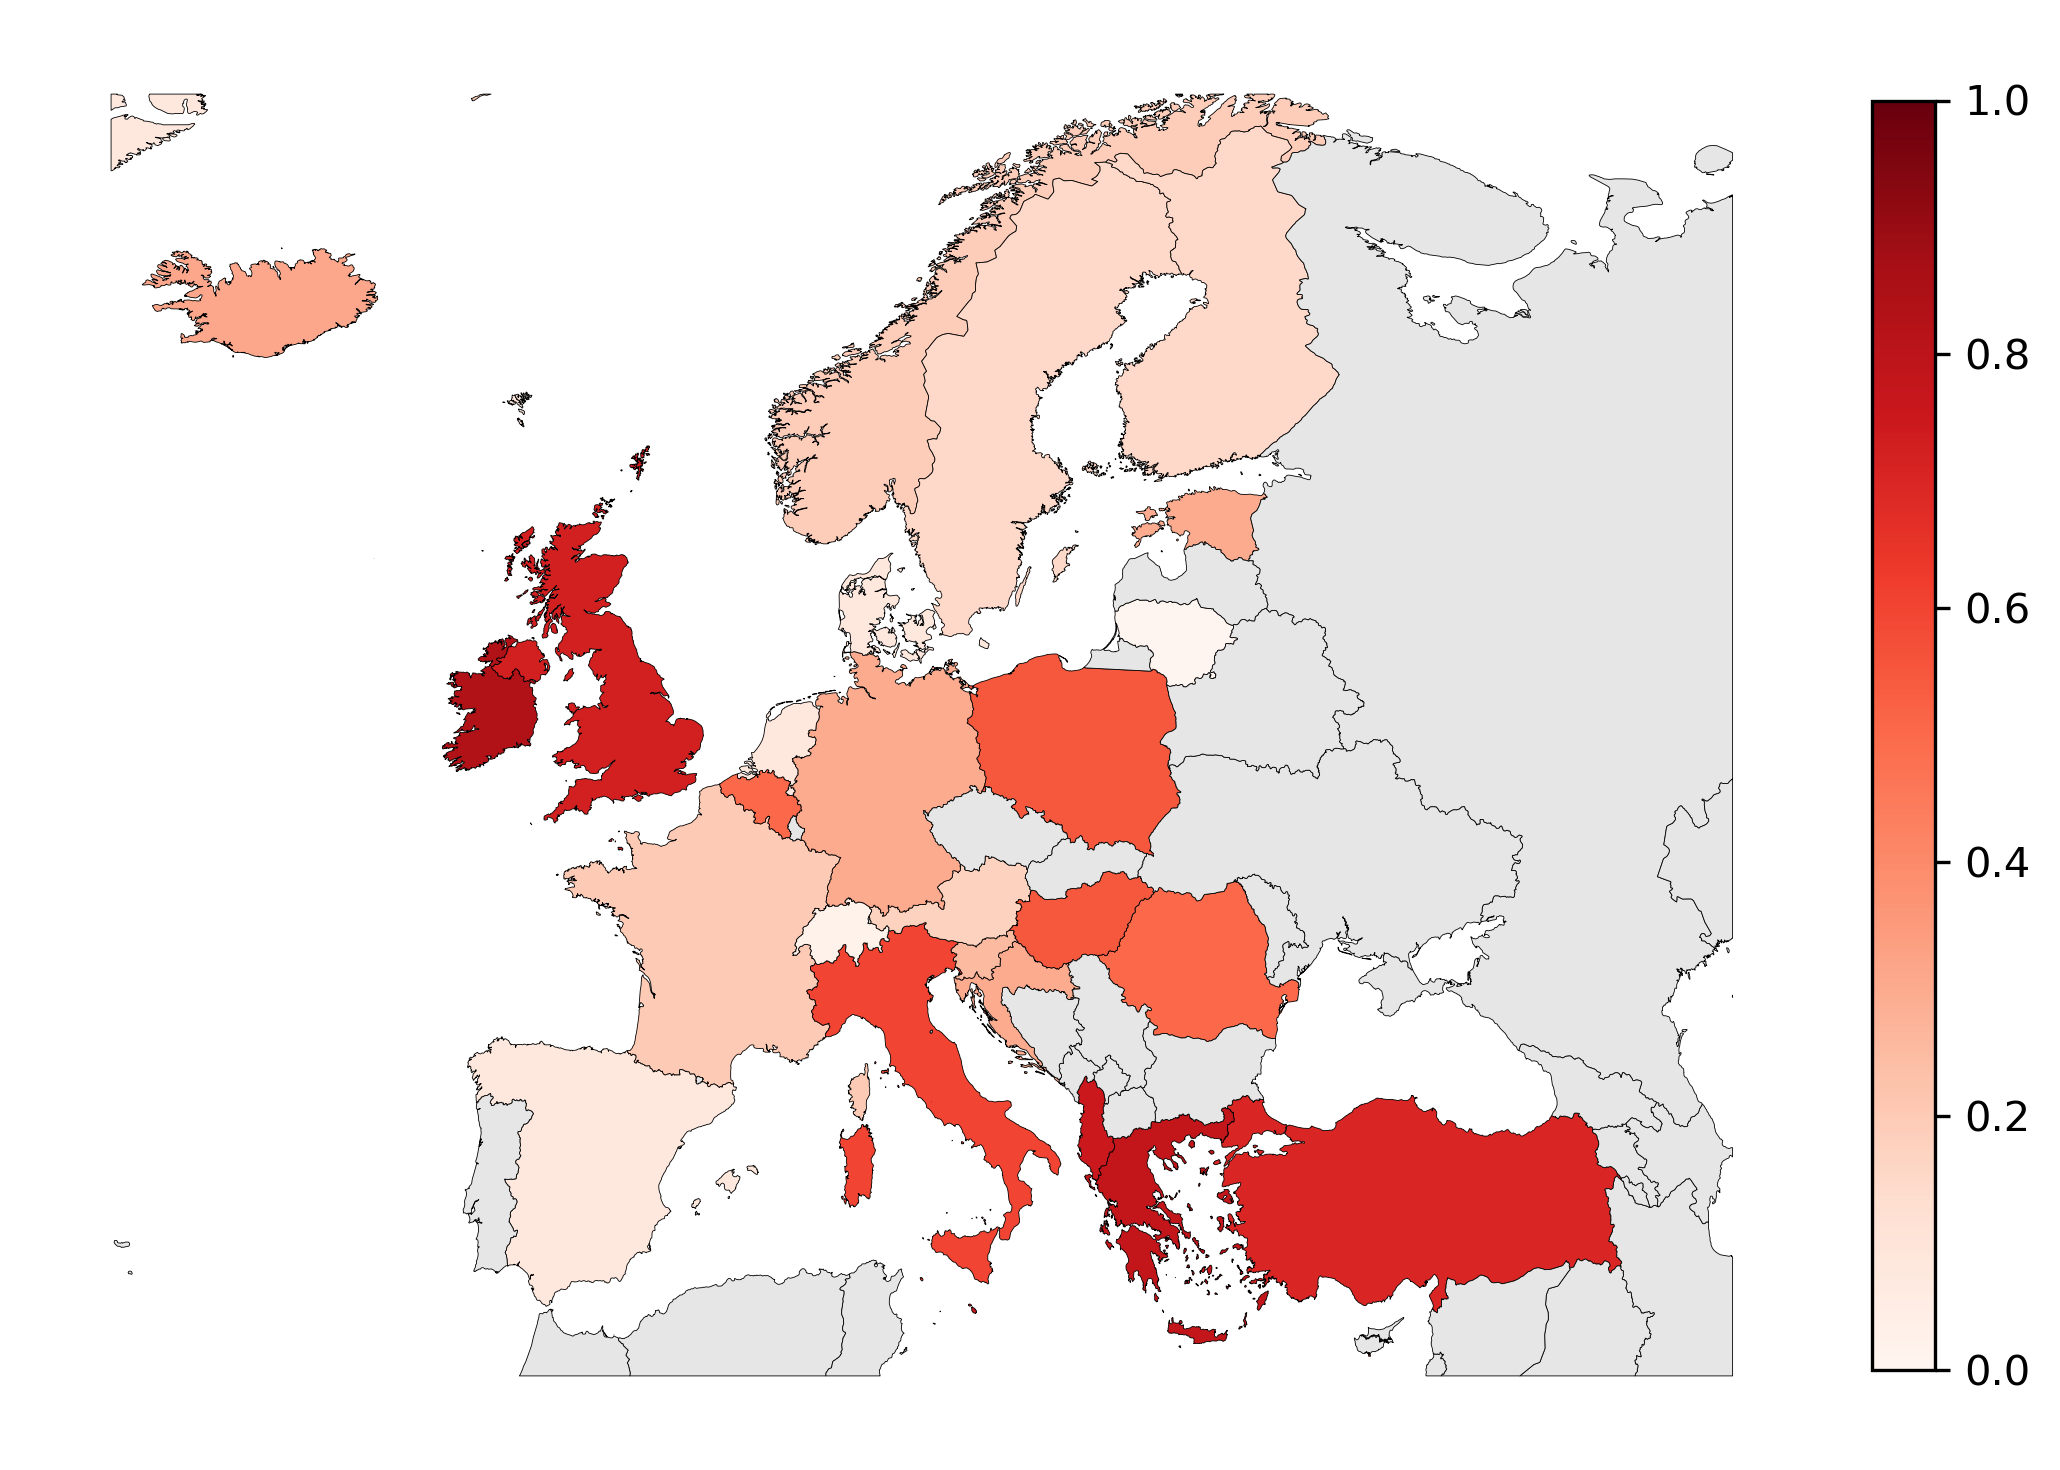
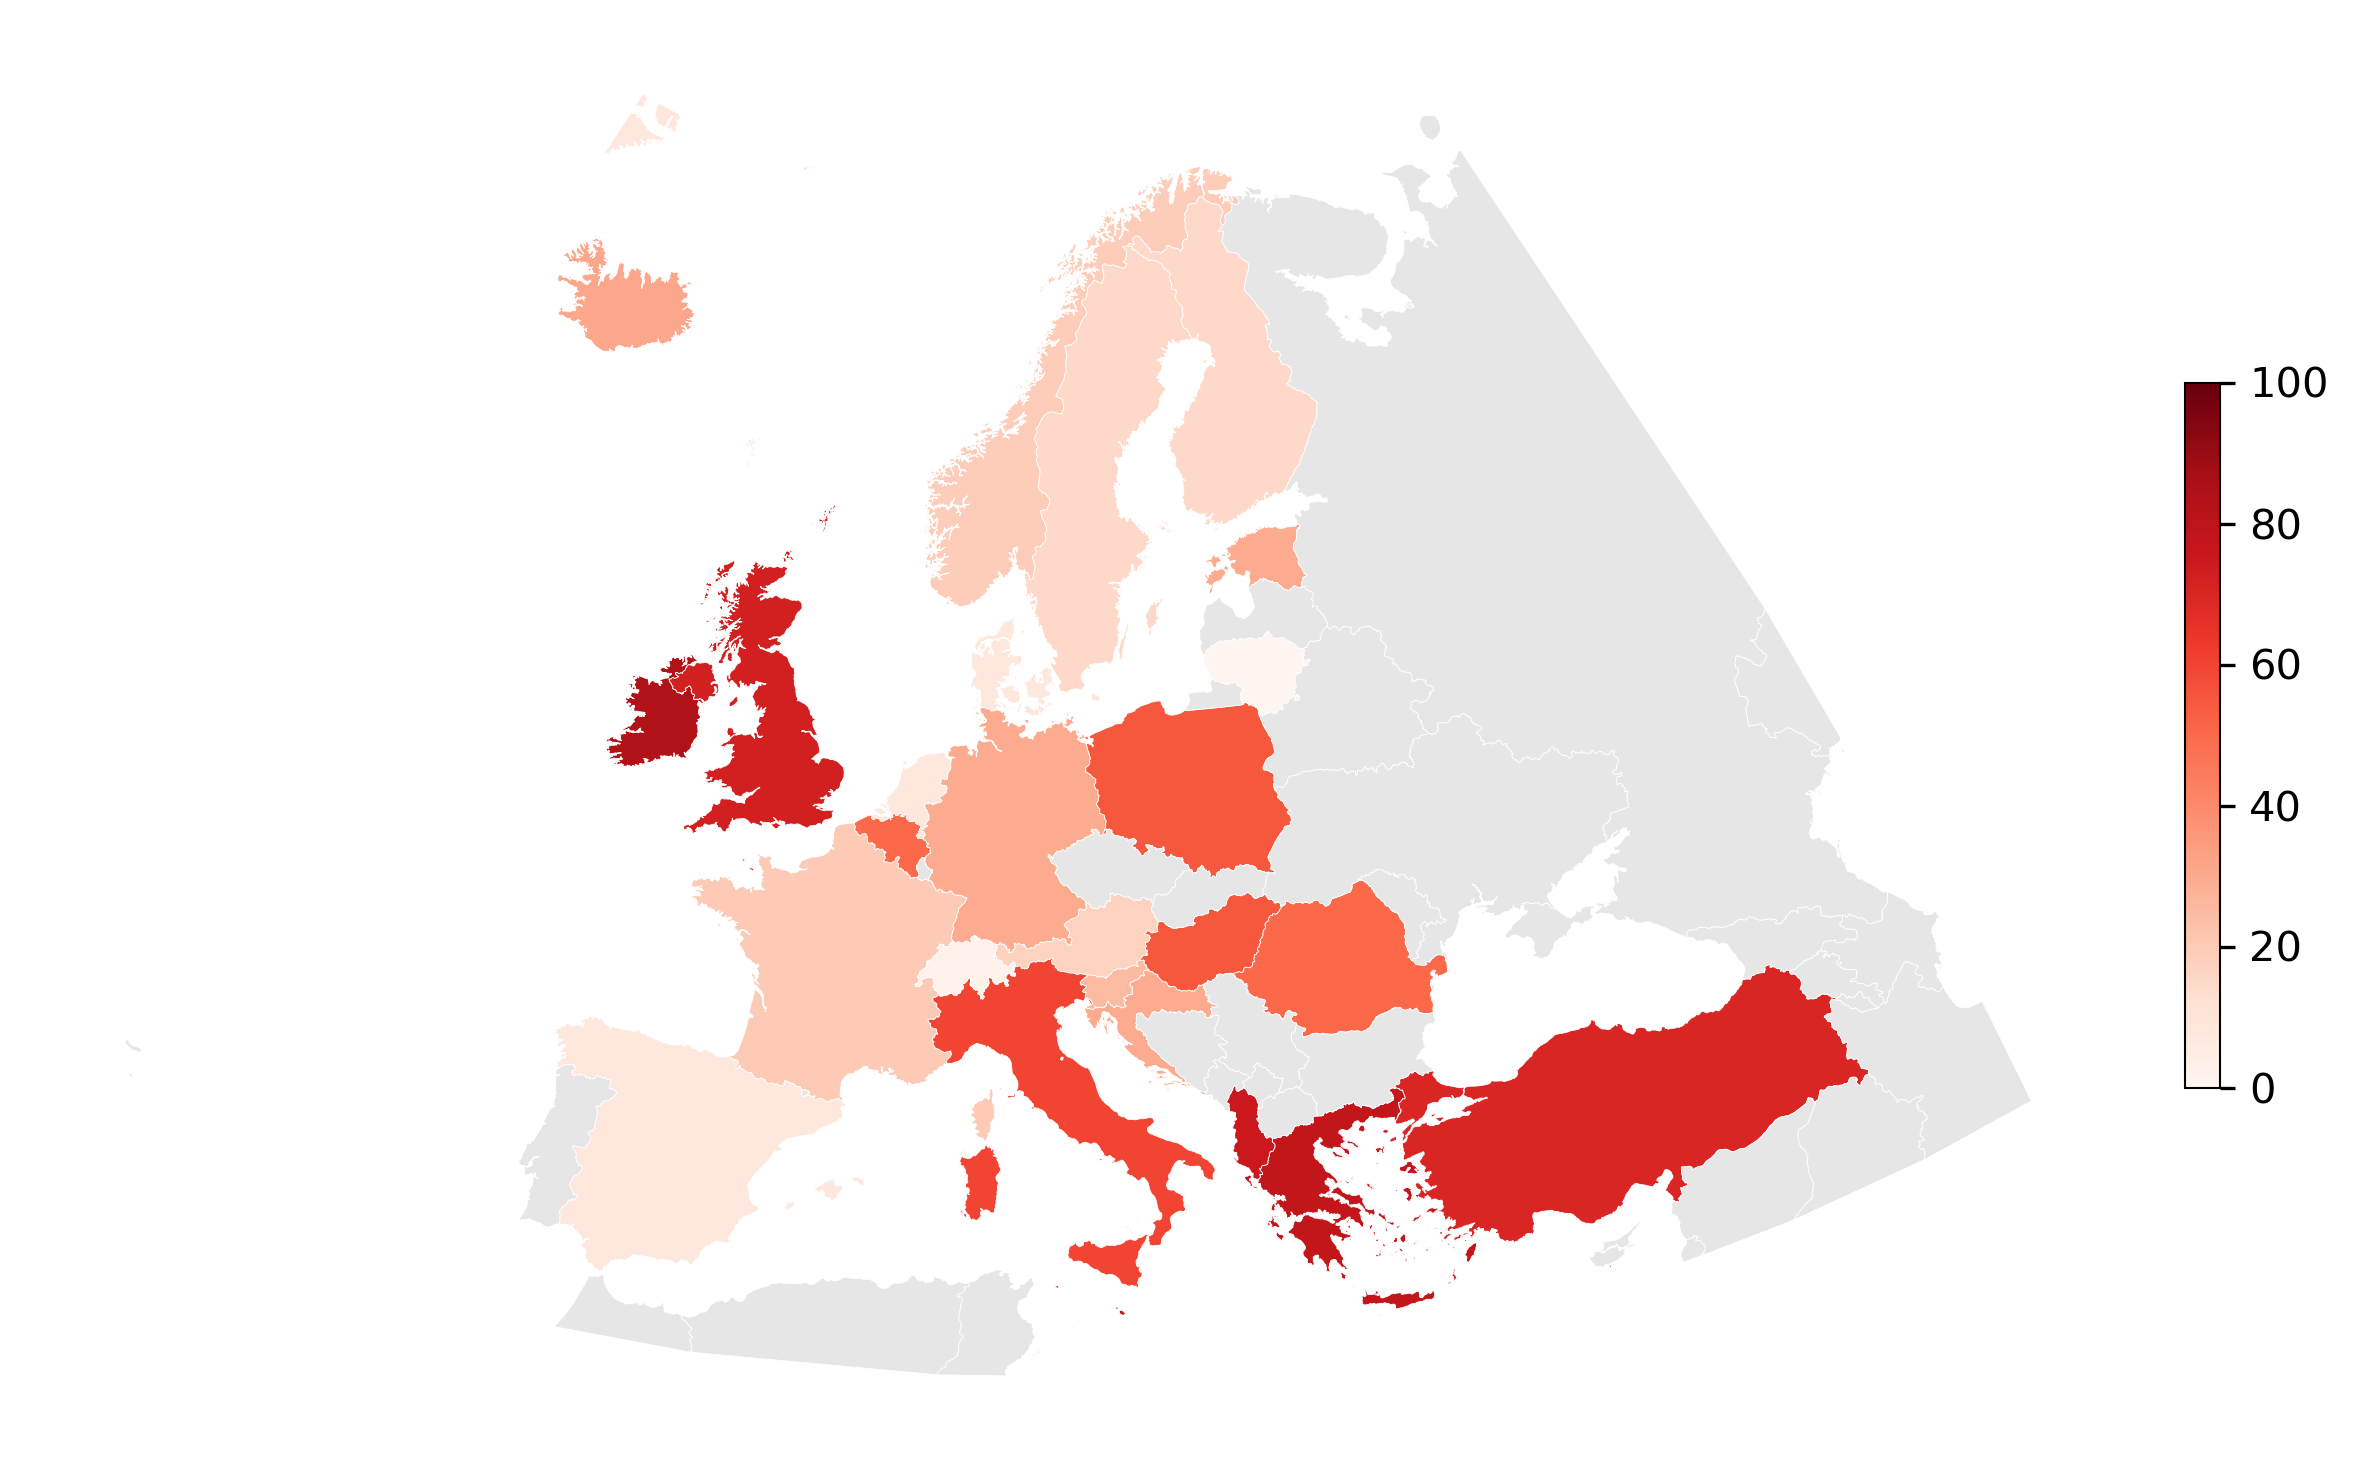
Upgrade map projection

diff --git a/report/manuscript.tex b/report/manuscript.tex
@@ -73,7 +73,7 @@
 
 \begin{figure}[H]
     \centering
-        \includegraphics[width=0.7\textwidth]{../output/plots/country_crowding}
+        \includegraphics[width=1.0\textwidth]{../output/plots/country_crowding}
         \caption{countrycrowding}
         \label{fig:country_crowding}
 \end{figure}
@@ -90,12 +90,12 @@
 
 \begin{figure}[H]
     \centering
-    \begin{subfigure}[b]{0.45\textwidth}
+    \begin{subfigure}[b]{0.4\textwidth}
         \includegraphics[width=\textwidth]{../output/plots/benefit}
         \caption{Would sufficiently accurate patient volume forecasting or crowding early warning software help alleviate the crowding problem?}
         \label{fig:benefit}
     \end{subfigure}
-    \begin{subfigure}[b]{0.45\textwidth}
+    \begin{subfigure}[b]{0.4\textwidth}
         \includegraphics[width=\textwidth]{../output/plots/software_usage}
         \caption{Do you currently use a patient volume forecasting or crowding early warning software to guide decision making?}
         \label{fig:software_usage}

diff --git a/notebooks/utils.py b/notebooks/utils.py
@@ -1,0 +1,20 @@
+def insert_newline_in_middle(sentence):
+    """
+    Inserts a newline character ('\\n') in the middle of the sentence,
+    ideally between words, not inside one.
+    
+    Parameters:
+        sentence (str): The input sentence.
+    
+    Returns:
+        str: The sentence with a newline roughly in the middle.
+    """
+    words = sentence.split()
+    if len(words) <= 1:
+        return sentence  # not enough words to split meaningfully
+
+    mid_index = len(words) // 2
+    first_half = ' '.join(words[:mid_index])
+    second_half = ' '.join(words[mid_index:])
+
+    return f"{first_half} \n {second_half}"
